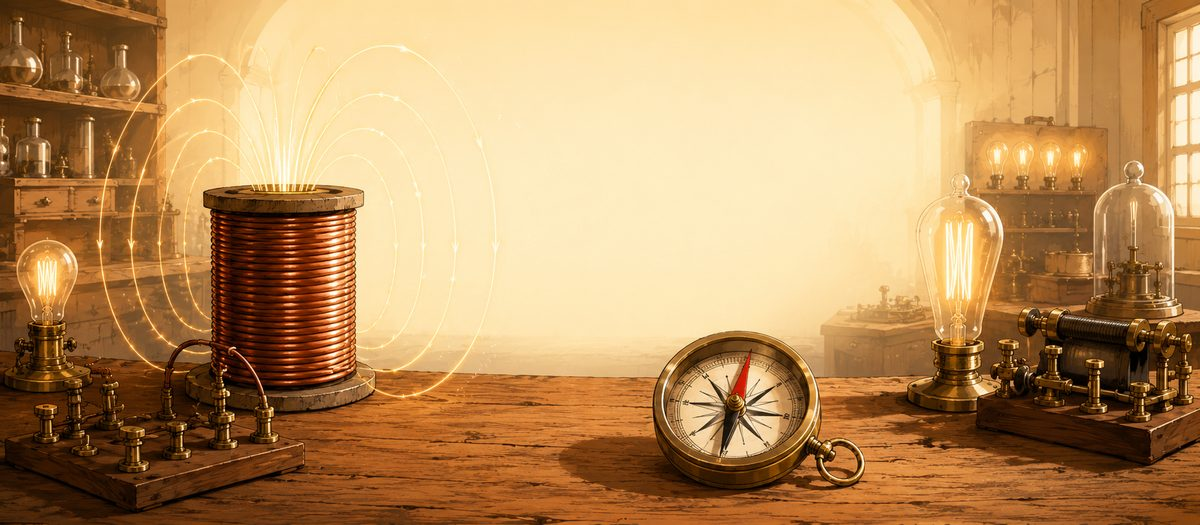
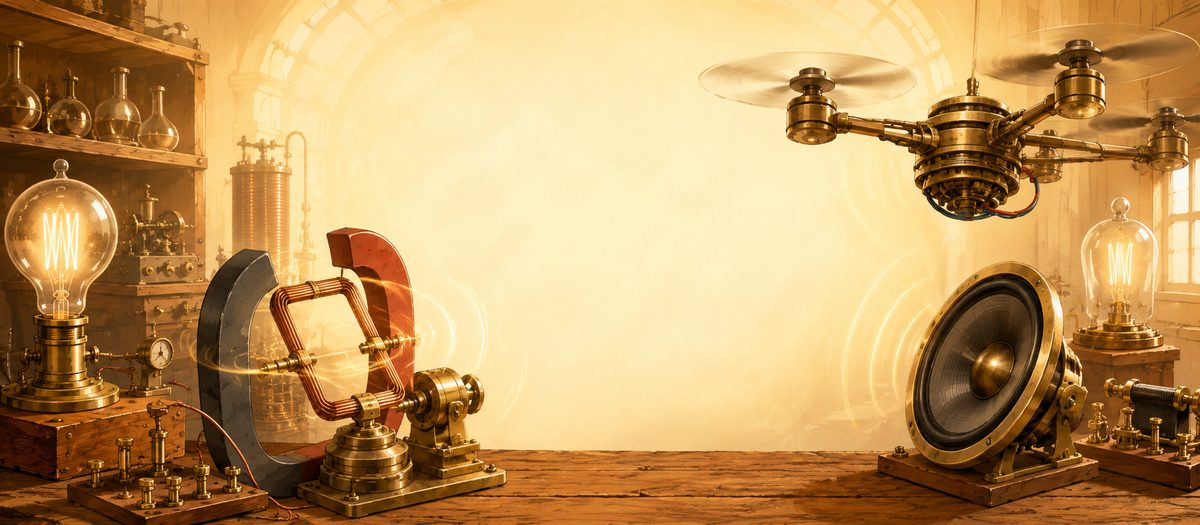
새 그림 4장 반영 · 기본 다지기 카드는 사진 없이
- 4·6·7차시 도입 사진(oh-bright, pw-intro, co-frame) 추가 — 이제 슬롯이 남지 않음
- 허브 8차시 썸네일 교체: 이전 파일이 7차시와 픽셀까지 동일했음
  (옛 파일은 img/_원본/e-hub-l8_이전.png 로 보관)
- 허브 l0(기본 다지기)은 썸네일 없이 글자만 — 차시가 아니라 준비 시간이라
- 새 그림 4장도 같은 규격으로 정리: 8.1MB → 0.4MB

diff --git a/index.html b/index.html
@@ -804,7 +804,7 @@ const $=(s,r=document)=>r.querySelector(s), $$=(s,r=document)=>[...r.querySelect
 const HUB_IMG={
   hero:'img/e-hub-hero.jpg',
   page:'img/e-bg-hub.jpg',
-  l0:'img/e-hub-l0.png',  // 기본 다지기 — 전기 기호와 선수 지식
+  /* l0(기본 다지기)은 사진 없이 글자만 — 차시가 아니라 준비 시간이라 카드를 가볍게 둔다 */
   l1:'img/e-hub-l1.jpg',  // 마찰 전기와 전기력
   l2:'img/e-hub-l2.jpg',  // 정전기 유도
   l3:'img/e-hub-l3.jpg',  // 전하의 이동과 전류
